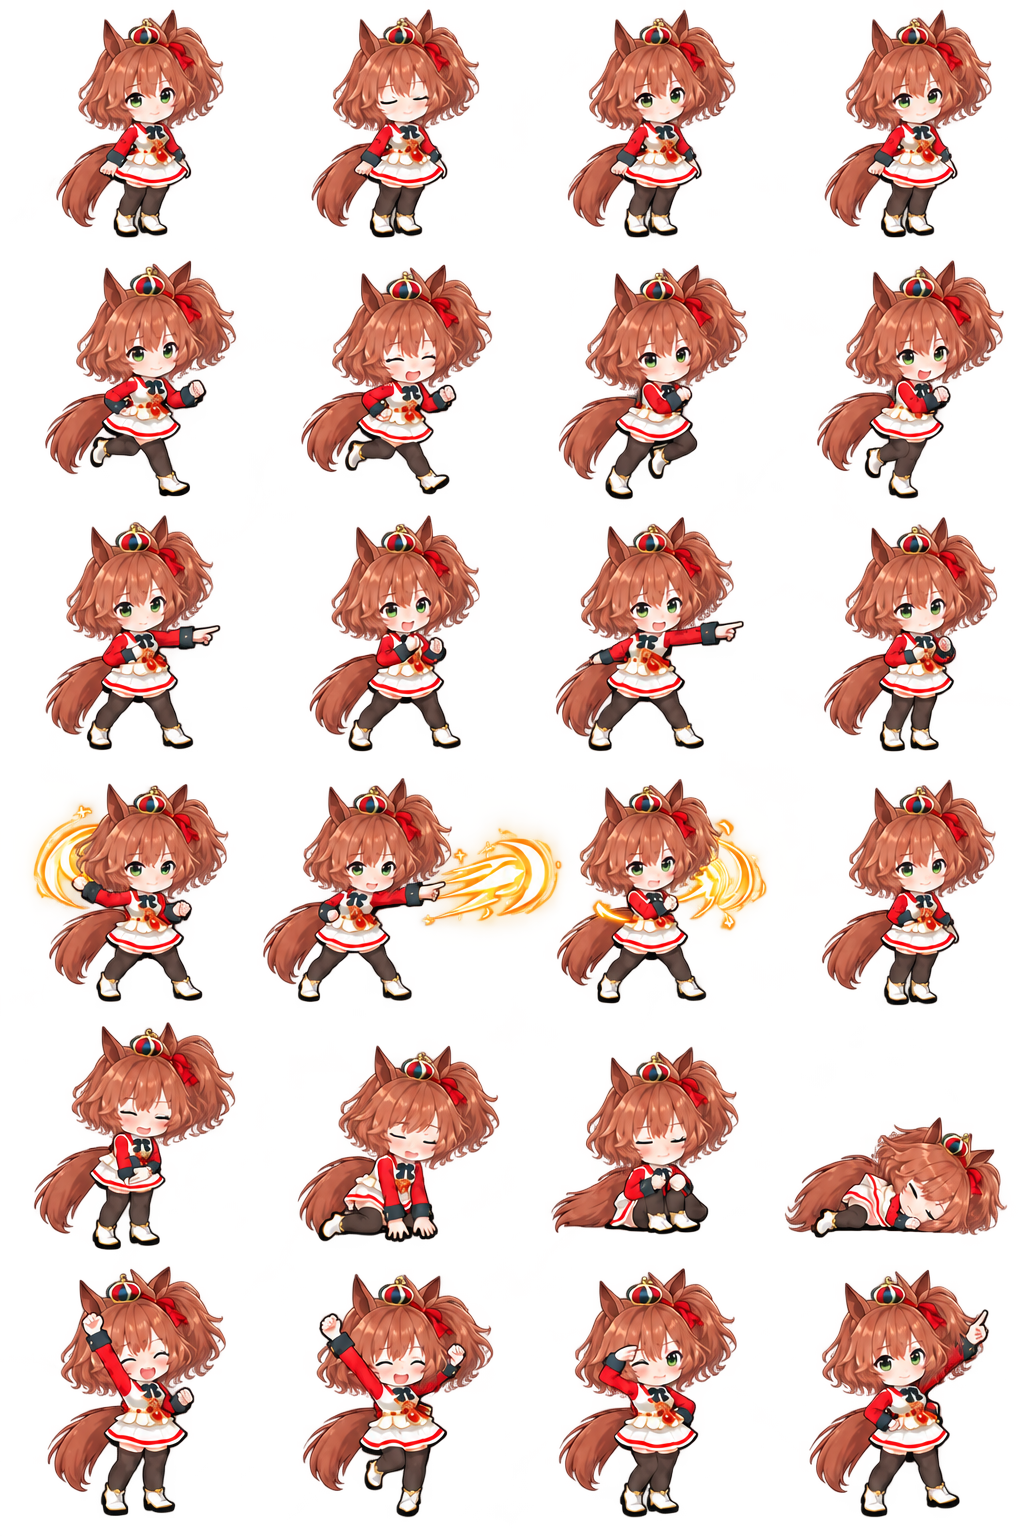
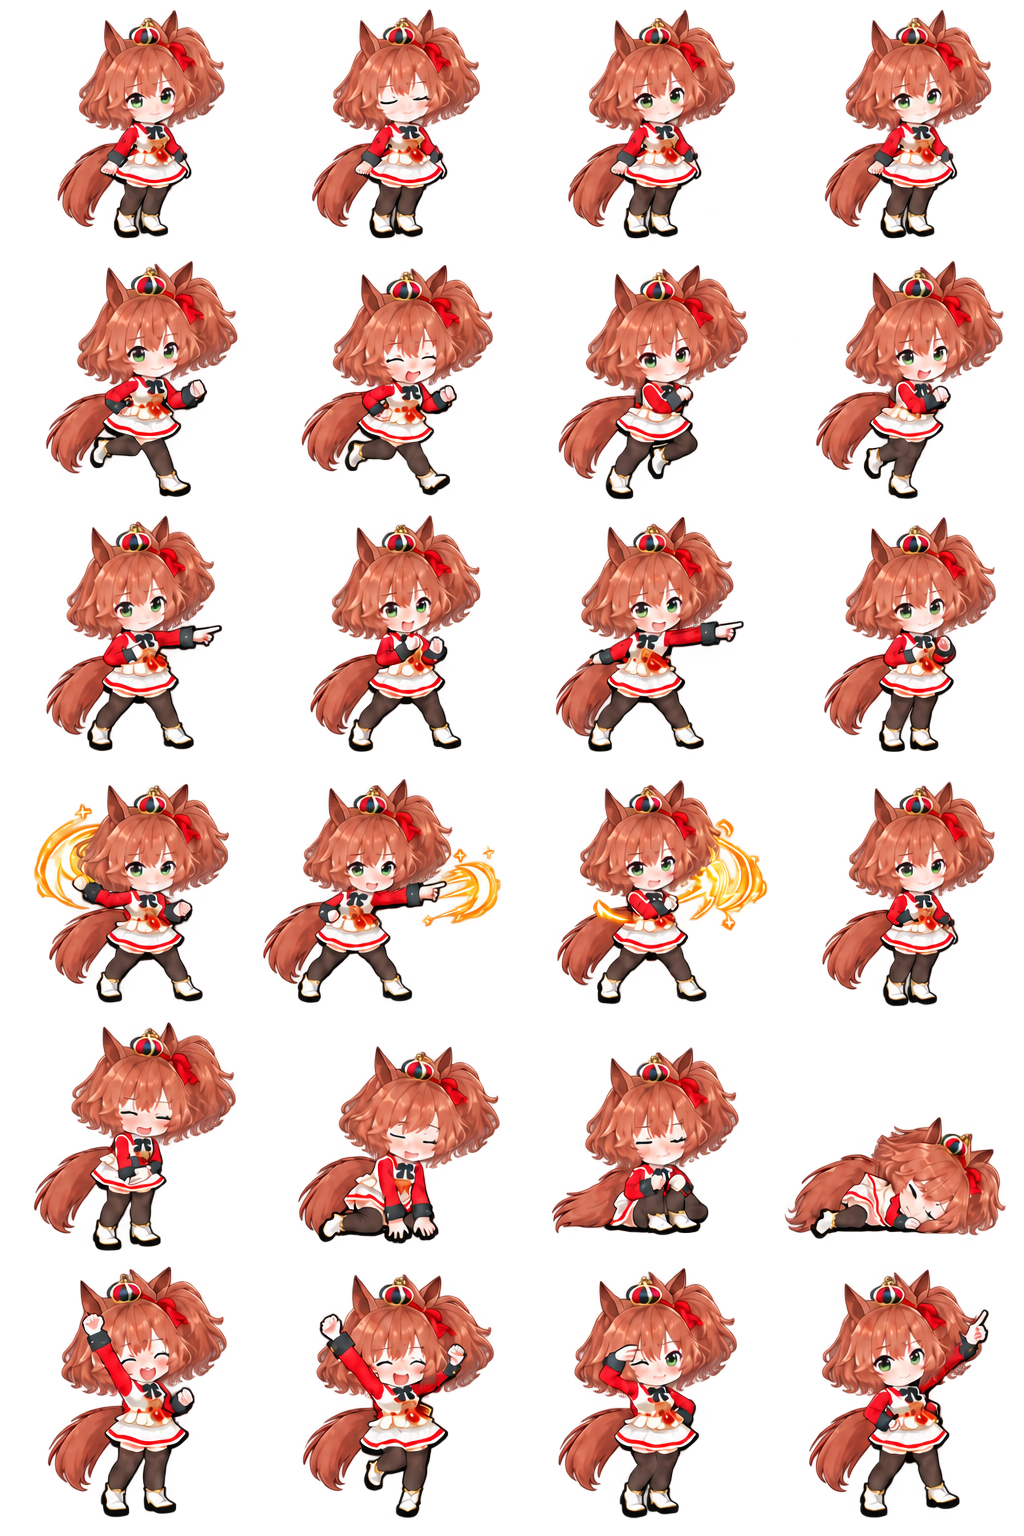
art: isolate Aston Machan skill effects within their frame cells

diff --git a/docs/qa/identity-2026-09-12/README.md b/docs/qa/identity-2026-09-12/README.md
@@ -25,3 +25,5 @@
 | 히시 미라클 | 눈 색을 옅은 청록색으로 보정 |
 
 6명의 원본 생성 이력은 유지하고 `generation.json`의 `detailRevision`에 실제 후속 프롬프트와 참조 커밋을 기록했습니다. 현재 생성 지침과 검토 사유도 흰 앞머리·양쪽 보라색 눈 등 최종 초상화 기준으로 정정했습니다. 원본 프롬프트의 잘못된 지시는 이력으로만 남깁니다.
+
+최종 게임용 크기 검수에서 애스턴 마짱의 4행 2열 이펙트가 옆 프레임으로 번지는 부분을 발견해 길이를 줄였습니다. 24포즈와 실제 알파를 다시 확인하고 비교 자료를 갱신했습니다.
